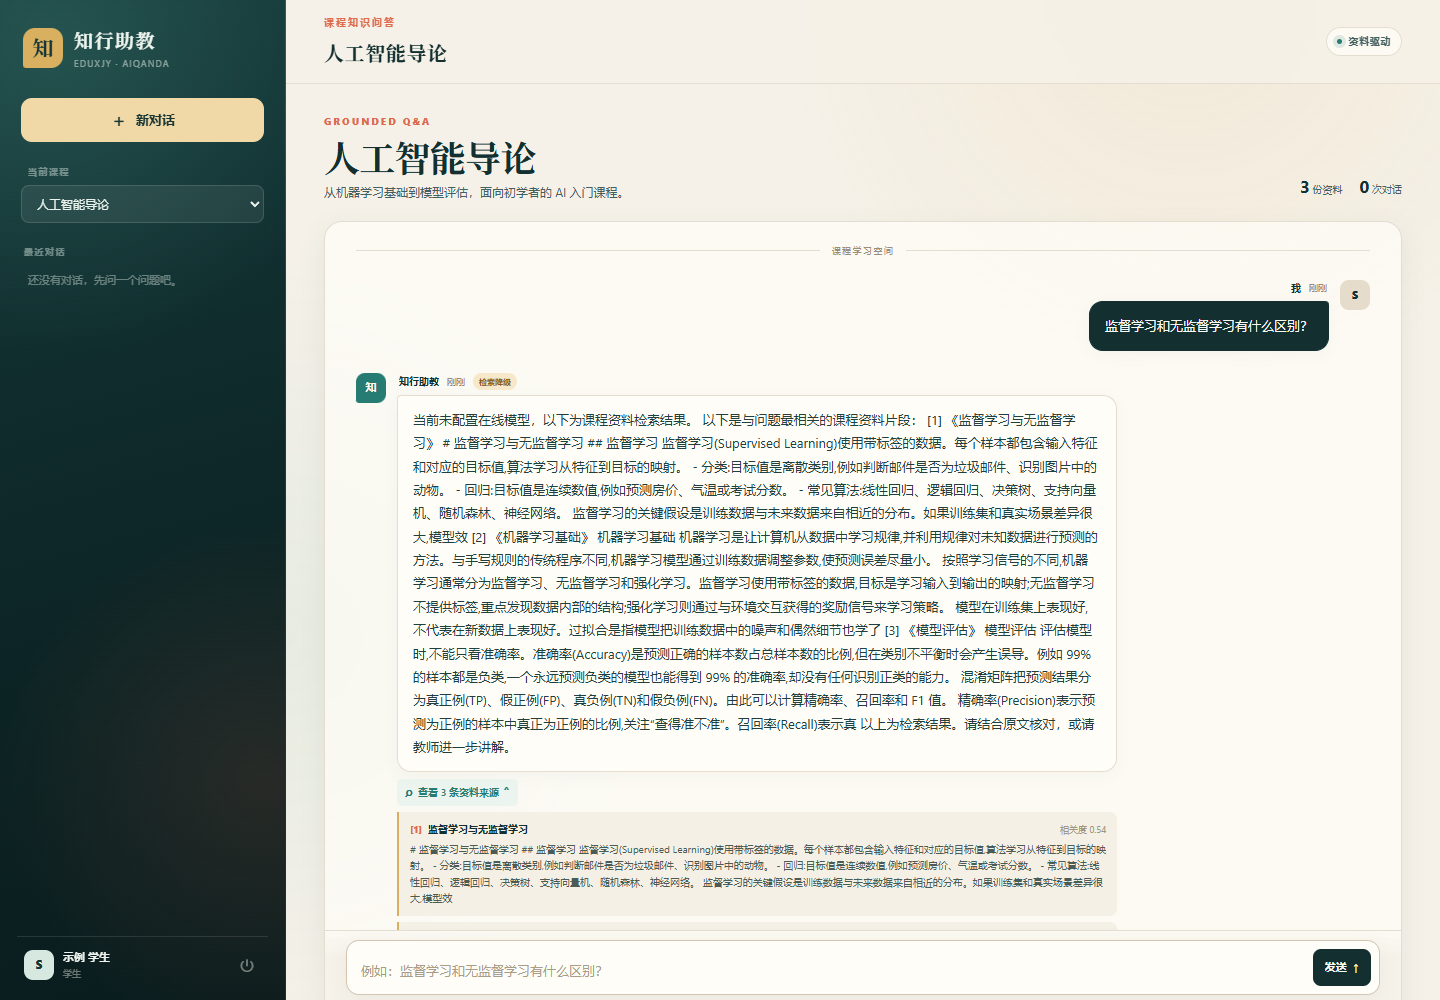
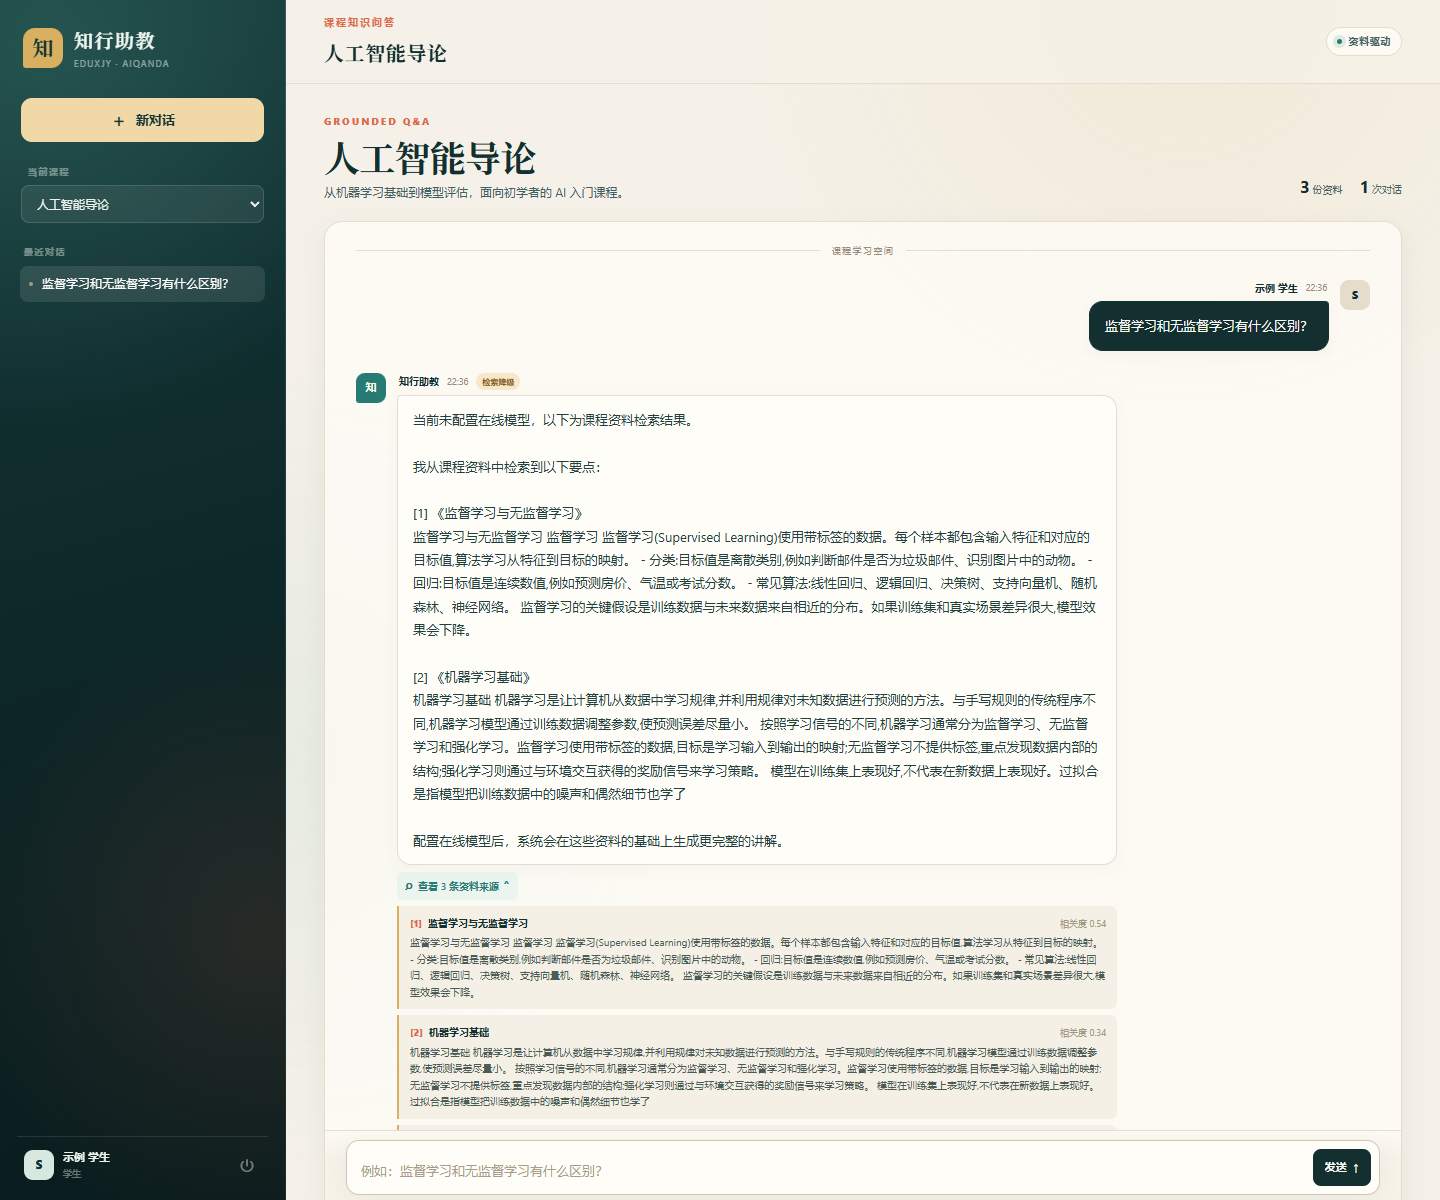
fix: clean fallback excerpts and align deployment group

diff --git a/AIQandA/services/llm.py b/AIQandA/services/llm.py
@@ -3,6 +3,7 @@
 from __future__ import annotations
 
 import logging
+import re
 import time
 from dataclasses import dataclass
 from typing import Sequence
@@ -63,6 +64,15 @@ def _format_history(history: Sequence[Message]) -> list[dict[str, str]]:
     return messages
 
 
+def _clean_excerpt(text: str) -> str:
+    """Make a retrieved Markdown excerpt readable in a plain-text answer."""
+    cleaned = re.sub(r"#{1,6}\s*", "", text)
+    cleaned = re.sub(r"\*\*(.+?)\*\*", r"\1", cleaned)
+    cleaned = re.sub(r"\s*\|\s*", " ", cleaned)
+    cleaned = re.sub(r"-{3,}", " ", cleaned)
+    return " ".join(cleaned.split())
+
+
 def _fallback_text(chunks: Sequence[RetrievedChunk], reason: str) -> str:
     if not chunks:
         return "课程资料中暂未找到与这个问题相关的内容。请换一种问法，或请教师补充资料。"
@@ -70,7 +80,7 @@ def _fallback_text(chunks: Sequence[RetrievedChunk], reason: str) -> str:
     for index, item in enumerate(chunks[:2], start=1):
         document = item.chunk.document
         page = f"，第 {item.chunk.page_number} 页" if item.chunk.page_number else ""
-        quote = " ".join(item.chunk.content.split())[:MAX_QUOTE_CHARS]
+        quote = _clean_excerpt(item.chunk.content)[:MAX_QUOTE_CHARS]
         lines.append(f"\n[{index}] 《{document.title}》{page}\n{quote}")
     lines.append("\n配置在线模型后，系统会在这些资料的基础上生成更完整的讲解。")
     return "\n".join(lines)

diff --git a/AIQandA/services/qa.py b/AIQandA/services/qa.py
@@ -2,6 +2,7 @@
 
 from __future__ import annotations
 
+import re
 from dataclasses import dataclass
 from typing import Sequence
 
@@ -50,7 +51,7 @@ def answer_question(
             chunk_id=item.chunk.id,
             document_title=item.chunk.document.title,
             page_number=item.chunk.page_number,
-            quote=" ".join(item.chunk.content.split())[:MAX_QUOTE_CHARS],
+            quote=re.sub(r"#{1,6}\s*", "", " ".join(item.chunk.content.split()))[:MAX_QUOTE_CHARS],
             score=round(item.score, 4),
         )
         for index, item in enumerate(chunks, start=1)

diff --git a/deploy/README.md b/deploy/README.md
@@ -130,7 +130,7 @@ systemctl enable --now eduxjy
 systemctl status eduxjy --no-pager
 ```
 
-Ubuntu 使用 `Group=www-data`；RHEL 系将 service 中的组改为 `nginx`。
+服务以 `eduxjy` 用户运行，静态文件权限为 755/644，Nginx 可以直接读取；不需要按发行版修改运行组。
 
 检查只监听本机：
 
